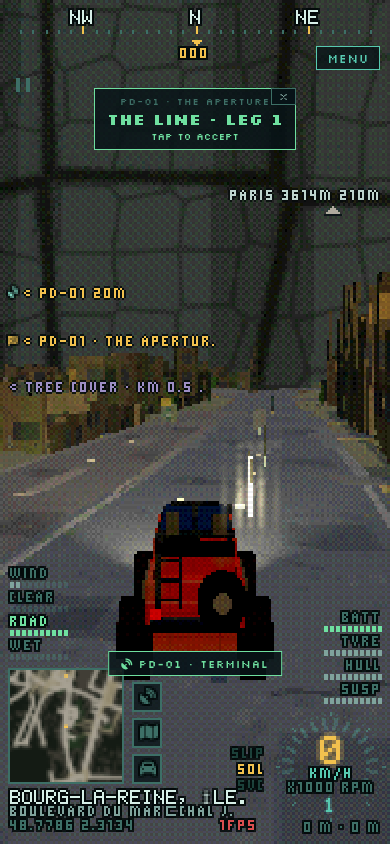
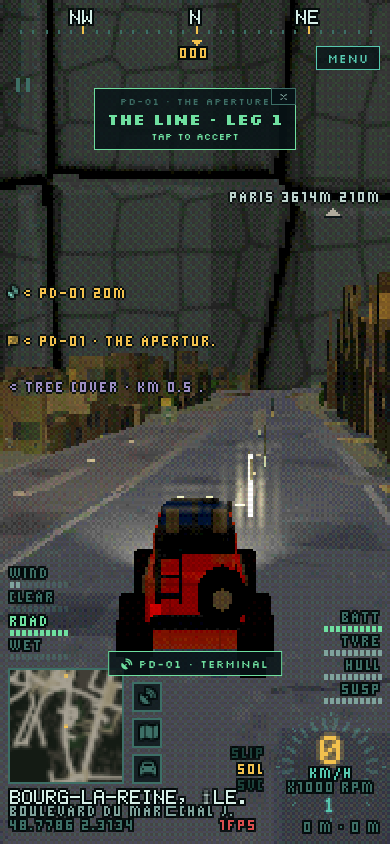
drive: the foot is a wall, the panels have surface, and shadows exist now
THE SKIRT WAS WEARING THE ROOF'S PATTERN, and it was wrong twice over. The
cube chart reads `normalize(position)`, which on a cylinder is almost
entirely horizontal — so the dome's cells smeared into vertical streaks down
the foot. And a wall is not built like a roof anyway. It gets what a wall of
that height gets: ribs, a buttress every eighth rib so it has a rhythm rather
than a corduroy, horizontal courses, and a wet, grimed band at the bottom
where ground water wicks up, which is the single most recognisable thing
about a big concrete foot.

THE PANELS WERE FLAT FILLS WITH LINES BETWEEN THEM — a drawing of panels
rather than a surface made of them. Two terms, no texture asset:

  GRAIN, a fine hash so a panel has tooth, faded out with range because
  below a pixel it is noise rather than material.

  BEVEL, the screen-space gradient of the seam field lit from up-left. An
  edge brighter on one side and darker on the other reads as RAISED, and
  that is the whole difference between a painted line and a joint you could
  put a finger in. Additive, so it survives on the dark side like the rest.

SHADOWS: NEITHER FLAG WAS SET, so neither happened — asked from the seat and
the honest answer was no. Both receive now. The DOME still does not cast, and
that is deliberate: the shadow camera is fitted to a few hundred metres
around the truck, which is what buys usable depth precision here, and a mesh
8.6km across either falls outside that frustum or destroys the precision
[…]

diff --git a/cells/drive/client/main.ts b/cells/drive/client/main.ts
@@ -26602,7 +26602,14 @@ const coverBandMat = new THREE.MeshLambertMaterial({ color: 0x232c2a, flatShadin
  * scratch, so the sun, the cloud shadows and the shadow map keep working —
  * the same reason terrainFx is shaped this way. CHAIN, do not clobber.
  */
-function coverFx(mat: THREE.MeshLambertMaterial): void {
+/**
+ * @param band  The FOOT is not the dome. It is a vertical wall where the
+ *   shell meets the ground, and giving it the dome's own cell pattern was
+ *   wrong twice over: `normalize(position)` on a cylinder is almost entirely
+ *   horizontal, so the cube chart smeared the panels into vertical streaks;
+ *   and a wall is not built like a roof anyway. It gets ribs and courses.
+ */
+function coverFx(mat: THREE.MeshLambertMaterial, band = false): void {
   const prev = mat.onBeforeCompile;
   mat.onBeforeCompile = function (sh, renderer) {
     prev?.call(mat, sh, renderer);
@@ -26673,6 +26680,36 @@ function coverFx(mat: THREE.MeshLambertMaterial): void {
         // way round for a thing built to fit a city.
         '  vec3 cd = normalize(vCovO);',
         '  float cph = acos(clamp(cd.y, -1.0, 1.0));',
+        '  float cDistB = distance(vCovW, cameraPosition);',
+        ...(band ? [
+          // ── THE FOOT IS A WALL ──
+          //
+          // Ribs and courses, which is how you hold a wall of this height up,
+          // and nothing like the roof above it. Angular rather than metric
+          // because the shader has no radius: on Paris's shell this puts a rib
+          // about every fourteen metres.
+          '  float bAng = atan(vCovO.z, vCovO.x) / 6.2831853;',
+          '  float bRib = bAng * 3800.0;',
+          '  float bCourse = vCovO.y / 5.5;',
+          '  float rib = 1.0 - smoothstep(0.06, 0.20, abs(fract(bRib) - 0.5));',
+          // Every eighth rib stands proud — a buttress, so the wall has a
+          // rhythm rather than a corduroy.
+          '  float bBut = 1.0 - smoothstep(0.10, 0.30, abs(fract(bRib / 8.0) - 0.5));',
+          '  float course = 1.0 - smoothstep(0.10, 0.30, abs(fract(bCourse) - 0.5));',
+          // Wet at the bottom, always. Ground water wicks up a wall and this
+          // is the single most recognisable thing about a big concrete foot.
+          '  float bLow = 1.0 - smoothstep(-70.0, 10.0, vCovO.y);',
+          '  float bGrime = covH1(vec2(bRib * 0.7, bCourse * 1.3));',
+          '  vec3 cc = gl_FragColor.rgb;',
+          '  cc *= 0.90 + 0.13 * covH1(vec2(floor(bRib), floor(bCourse)));',
+          '  cc = mix(cc, cc * 0.74, course * 0.8);',
+          '  cc = mix(cc, cc * 0.82, rib);',
+          '  cc = mix(cc, cc * 1.12, bBut * 0.5);',
+          '  cc = mix(cc, cc * 0.70, bLow * (0.45 + 0.4 * bGrime));',
+          '  cc += vec3(0.040, 0.046, 0.045) * (1.0 - 0.6 * course) * (1.0 - 0.5 * rib);',
+          '  gl_FragColor.rgb = cc;',
+          '}',
+        ] : [
         // ── A CUBE CHART, SO THERE IS NO POLE ──
         //
         // The dominant axis picks one of six faces and the other two
@@ -26731,10 +26768,31 @@ function coverFx(mat: THREE.MeshLambertMaterial): void {
         // neighbourhood, which is where water sits on any panelled structure.
         '  float grime = covH1(cuv * 420.0 + cface * 11.0);',
         '  float dirt = (1.0 - smoothstep(0.03, 0.14, sgap)) * smoothstep(0.35, 0.9, grime);',
+        // ── SURFACE, NOT JUST PATTERN ──
+        //
+        // The panels were flat FILLS with lines between them, which is a
+        // drawing of panels rather than a surface made of them. Two things
+        // fix that and neither needs a texture asset.
+        //
+        // GRAIN: a fine hash, so a panel has tooth. Faded out with range
+        // because below a pixel it is noise, not material.
+        '  float tooth = covH1(cuv * 2600.0 + cface * 5.0);',
+        '  float grainAmt = (1.0 - smoothstep(300.0, 1400.0, cDistB)) * 0.055;',
+        // BEVEL: the screen-space gradient of the seam field, lit from up-left.
+        // A panel edge that is brighter on one side and darker on the other
+        // reads as RAISED, and that is the whole difference between a painted
+        // line and a joint you could put a finger in. Screen-space is a cheat
+        // and an honest one at this pixel scale — it costs two derivatives.
+        '  vec2 sGrad = vec2(dFdx(sgap), dFdy(sgap));',
+        '  float sGL = length(sGrad);',
+        '  float bevel = sGL > 1e-6',
+        '    ? dot(sGrad / sGL, vec2(-0.55, -0.84)) * (1.0 - smoothstep(0.0, 0.16, sgap))',
+        '    : 0.0;',
         '  vec3 V = normalize(cameraPosition - vCovW);',
         '  vec3 N = normalize(vCovN);',
         '  float fres = pow(1.0 - clamp(dot(V, N), 0.0, 1.0), 3.0);',
         '  vec3 cc = gl_FragColor.rgb;',
+        '  cc *= 1.0 + (tooth - 0.5) * grainAmt * 2.0;',
         // ── STRUCTURE HAS TO ADD, NOT SCALE ──
         //
         // Every term here was multiplicative, and the shell is very nearly
@@ -26765,8 +26823,13 @@ function coverFx(mat: THREE.MeshLambertMaterial): void {
         // the sky the way the panel around it does, and that difference is
         // most of what says "panelled" on a silhouette.
         '  cc += vec3(0.10, 0.13, 0.14) * fres * 0.55 * (1.0 - 0.7 * seam);',
+        // The bevel rides on TOP of the sky term, so a joint catches the light
+        // on its lit lip and loses it on the other — additive, so it survives
+        // on the dark side exactly as the panels do.
+        '  cc += vec3(0.055, 0.062, 0.060) * bevel * 0.9;',
         '  gl_FragColor.rgb = cc;',
         '}',
+        ]),
       ].join('\n'));
   };
   // THREE CACHES PROGRAMS BY MATERIAL PARAMETERS, NOT BY THIS HOOK.
@@ -26784,7 +26847,7 @@ function coverFx(mat: THREE.MeshLambertMaterial): void {
   mat.needsUpdate = true;
 }
 coverFx(coverMat);
-coverFx(coverBandMat);
+coverFx(coverBandMat, true);
 /** Is this lat/lon under a Cover? The margin keeps half-in tiles out too —
  *  a road that dives under the shell is a road the map no longer answers for. */
 function underCover(lat: number, lon: number, margin = 0.97): Cover | null {
@@ -27104,11 +27167,35 @@ function buildCovers(): void {
     // Squashed — a shell over a city is a lid, not a planet.
     const dome = new THREE.Mesh(new THREE.SphereGeometry(c.r, 40, 14, 0, Math.PI * 2, 0, Math.PI / 2), coverMat);
     dome.scale.y = 0.42;
+    // ── SHADOWS: RECEIVES, DOES NOT CAST ──
+    //
+    // Neither was set, which meant neither happened. Receiving is free and
+    // right: at the aperture you stand at the foot of the thing, and a shell
+    // that ignores the shadow map is a shell nothing can fall across.
+    //
+    // CASTING is refused, and it is the dome specifically that has to refuse.
+    // The shadow camera is fitted to a few hundred metres around the truck,
+    // which is what buys usable depth precision at this scene scale; a mesh
+    // 8.6km across and 3.6km tall either falls outside that frustum entirely
+    // (drawn for nothing) or, if the frustum is grown to hold it, destroys the
+    // precision that every other shadow in the world depends on. A dome this
+    // size wants a cascade, and one does not exist here.
+    //
+    // The FOOT is a different question and gets a different answer below.
+    dome.castShadow = false;
+    dome.receiveShadow = true;
     g.add(dome);
     // The foot band: a wall where the shell meets the ground, so arriving at
     // it reads as arriving at a THING rather than at a big grey hill.
     const band = new THREE.Mesh(new THREE.CylinderGeometry(c.r * 1.001, c.r * 1.003, 170, 64, 1, true), coverBandMat);
     band.position.y = 80;
+    // …AND THE FOOT DOES CAST. It is 170m of wall standing where the player
+    // actually is — inside the shadow frustum, at the aperture, for the whole
+    // opening of the campaign. A wall that tall throws a long shadow across
+    // the ground at either end of the day, and that shadow is most of what
+    // makes standing next to it feel like standing next to something.
+    band.castShadow = true;
+    band.receiveShadow = true;
     g.add(band);
     // Seated a little low so terrain relief never opens a gap under the rim.
     // The centre is kilometres away, so its terrain has usually NOT streamed —
